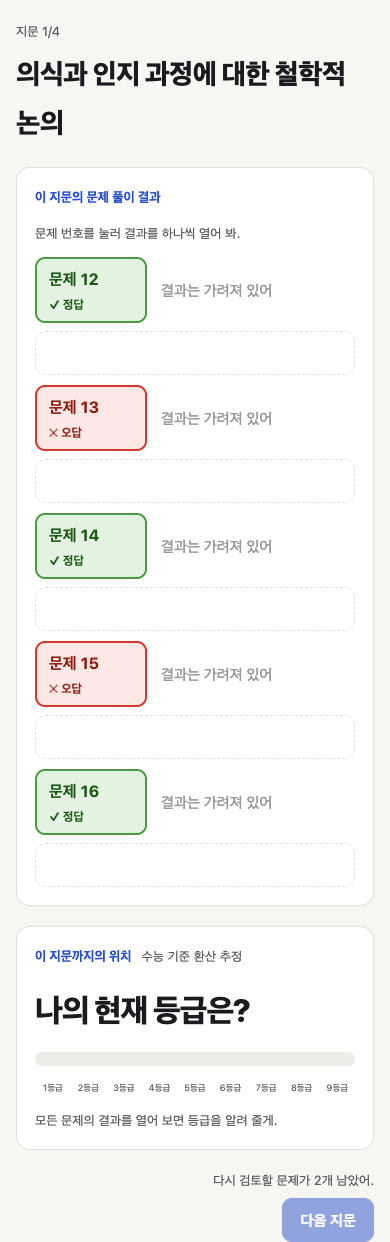
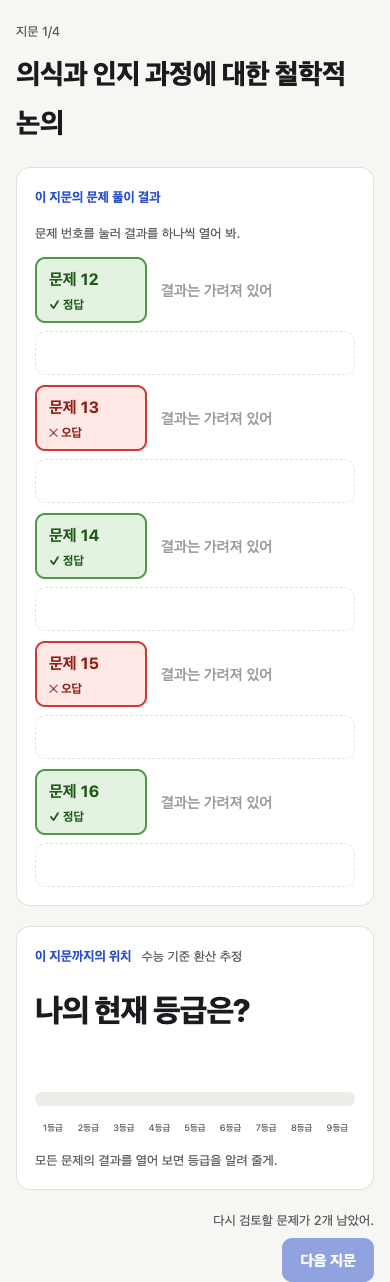
feat(diagnostic): continuous grade gradient with hover probability and most-likely grade line (D-0219)

diff --git a/packages/pipeline/src/diagnostic-position/position.ts b/packages/pipeline/src/diagnostic-position/position.ts
@@ -22,8 +22,9 @@ export interface ParticipantPosition {
   answered: number;
   correct: number;
   percentile: PositionRange;
-  /** probabilities: 1~9등급 확률(합 1), mode: 확률 최대 등급(같으면 더 높은 등급 = 작은 숫자). */
-  grade: { mean: number; best: number; worst: number; probabilities: number[]; mode: number };
+  /** probabilities: 1~9등급 확률(합 1), mode: 확률 최대 등급(같으면 더 높은 등급 = 작은 숫자).
+   *  density: 실수 등급 축 [1, 10)을 등급마다 GRADE_DENSITY_BINS칸으로 나눈 확률(합 1, 매끄럽게 편 값, D-0219). */
+  grade: { mean: number; best: number; worst: number; probabilities: number[]; mode: number; density: number[] };
   bySubject: Record<PositionSubject, { percentile: PositionRange }>;
 }
 
@@ -54,8 +55,8 @@ export function itemDifficultyFor(data: PositionData, seq: string, questionNumbe
 
 const GRID = Array.from({ length: 401 }, (_, j) => -4 + 8 * j / 400);
 /** 사전분포 N(0, σ²), 격자 -4~4 401점의 사후 가중치(합 1). */
-function abilityPosterior(responses: { b: number; correct: boolean }[], sigma: number): number[] {
-  const lp = GRID.map(t => -t * t / (2 * sigma * sigma)
+function abilityPosterior(responses: { b: number; correct: boolean }[], sigma: number, grid: readonly number[] = GRID): number[] {
+  const lp = grid.map(t => -t * t / (2 * sigma * sigma)
     + responses.reduce((sum, { b, correct }) => sum + Math.log(correct ? logistic(t - b) : 1 - logistic(t - b)), 0));
   const m = Math.max(...lp);
   const w = lp.map(x => Math.exp(x - m));
@@ -91,32 +92,92 @@ export function gradeOfPercentile(percentile: number): number {
   const g = TOP.findIndex(c => top <= c);
   return g < 0 ? 9 : g + 1;
 }
+/** 기준 시험 45문항 예상 원점수(능력값의 매끄러운 함수). */
+export function nationalRaw(theta: number, subject: PositionSubject, sigma = POSITION_SIGMA, data = loadPositionData()): number {
+  return examItems(data, REFERENCE_EXAM_SEQ, subject)
+    .reduce((sum, it) => sum + it.points * logistic(theta - itemDifficulty(it.correctRate / 100, sigma)), 0);
+}
 /** 기준 시험 45문항 예상 원점수 → 원점수 등급컷 보간으로 전국 백분위. */
 export function nationalPosition(theta: number, subject: PositionSubject, sigma = POSITION_SIGMA, data = loadPositionData()): number {
-  const raw = examItems(data, REFERENCE_EXAM_SEQ, subject)
-    .reduce((sum, it) => sum + it.points * logistic(theta - itemDifficulty(it.correctRate / 100, sigma)), 0);
-  return percentOfRaw(data, raw, REFERENCE_EXAM_SEQ, subject);
+  return percentOfRaw(data, nationalRaw(theta, subject, sigma, data), REFERENCE_EXAM_SEQ, subject);
 }
 
-/** 선택과목 하나의 사후분포 격자 점마다 능력값 → 전국 백분위 → 등급을 매기고 가중치를 더한 등급 분포(1~9등급, 합 1). */
-function gradeProbabilities(posterior: number[], subject: PositionSubject, data: PositionData): number[] {
-  const probabilities = new Array<number>(9).fill(0);
-  GRID.forEach((theta, i) => {
-    if (posterior[i]! < 1e-12) return;
-    probabilities[gradeOfPercentile(nationalPosition(theta, subject, POSITION_SIGMA, data)) - 1]! += posterior[i]!;
-  });
-  return probabilities;
+/** 실수 등급 한 칸을 나누는 칸 수(띠 그라데이션용, D-0219). */
+export const GRADE_DENSITY_BINS = 10;
+
+/** 단조 3차 보간(PCHIP, Fritsch–Carlson). x는 오름차순. 점을 그대로 지나고 단조성과 1차 미분 연속을 지킨다. */
+export function pchip(xs: readonly number[], ys: readonly number[]): (x: number) => number {
+  const n = xs.length; const h: number[] = []; const delta: number[] = [];
+  for (let i = 0; i + 1 < n; i++) { h.push(xs[i + 1]! - xs[i]!); delta.push((ys[i + 1]! - ys[i]!) / h[i]!); }
+  const m = new Array<number>(n).fill(0);
+  m[0] = delta[0]!; m[n - 1] = delta[n - 2]!;
+  for (let i = 1; i + 1 < n; i++) {
+    if (delta[i - 1]! * delta[i]! <= 0) { m[i] = 0; continue; }
+    const w1 = 2 * h[i]! + h[i - 1]!; const w2 = h[i]! + 2 * h[i - 1]!;
+    m[i] = (w1 + w2) / (w1 / delta[i - 1]! + w2 / delta[i]!);   // 가중 조화 평균
+  }
+  return (x: number) => {
+    const clamped = Math.min(xs[n - 1]!, Math.max(xs[0]!, x));
+    let i = 0; while (i + 2 < n && clamped > xs[i + 1]!) i++;
+    const t = (clamped - xs[i]!) / h[i]!; const t2 = t * t; const t3 = t2 * t;
+    return (2 * t3 - 3 * t2 + 1) * ys[i]! + (t3 - 2 * t2 + t) * h[i]! * m[i]! + (-2 * t3 + 3 * t2) * ys[i + 1]! + (t3 - t2) * h[i]! * m[i + 1]!;
+  };
 }
+const gradeCurves = new Map<string, (raw: number) => number>();
+/** 원점수 → 실수 등급 [1, 10). 원점수 등급컷을 정수 등급 경계(100점 = 1.0, 1등급컷 = 2.0, …, 8등급컷 = 9.0, 0점 = 10.0)로 두고
+ *  단조 3차 보간으로 잇는다. 직선 보간은 등급마다 원점수 폭이 달라 경계에서 띠 진하기가 꺾였다(D-0219 정정). */
+export function continuousGradeOfRaw(raw: number, subject: PositionSubject, data = loadPositionData()): number {
+  const key = `${REFERENCE_EXAM_SEQ}/${subject}`;
+  let curve = gradeCurves.get(key);
+  if (!curve) {
+    const cuts = data.cuts[REFERENCE_EXAM_SEQ]?.cuts[subject];
+    if (!cuts || cuts.length !== 8) throw new Error(`등급컷 자료가 없습니다: ${key}`);
+    curve = pchip([0, ...[...cuts].reverse(), 100], [10, 9, 8, 7, 6, 5, 4, 3, 2, 1]);
+    gradeCurves.set(key, curve);
+  }
+  return Math.min(10 - 1e-9, Math.max(1, curve(raw)));
+}
+
+/** 등급 축 계산용 촘촘한 능력값 격자(-4~4, 4001점). 401점 격자는 1등급 쪽에서 등급 칸보다 성글었다. */
+const FINE_GRID = Array.from({ length: 4001 }, (_, j) => -4 + 8 * j / 4000);
+/** 선택과목 하나: 촘촘한 격자의 사후분포를 실수 등급 칸(등급마다 GRADE_DENSITY_BINS칸)과 정수 등급으로 모은다. */
+function gradeAxis(scored: { b: number; correct: boolean }[], subject: PositionSubject, data: PositionData): { bins: number[]; probabilities: number[] } {
+  const posterior = abilityPosterior(scored, POSITION_SIGMA, FINE_GRID);
+  const bins = new Array<number>(9 * GRADE_DENSITY_BINS).fill(0); const probabilities = new Array<number>(9).fill(0);
+  FINE_GRID.forEach((theta, i) => {
+    if (posterior[i]! < 1e-14) return;
+    const c = continuousGradeOfRaw(nationalRaw(theta, subject, POSITION_SIGMA, data), subject, data);
+    bins[Math.min(bins.length - 1, Math.floor((c - 1) * GRADE_DENSITY_BINS))]! += posterior[i]!;
+    probabilities[Math.min(8, Math.floor(c) - 1)]! += posterior[i]!;
+  });
+  return { bins, probabilities };
+}
+/** 칸 경계에서 생기는 잔물결만 가볍게 편다(가우스 커널 σ = 1칸). 합은 1로 다시 맞춘다. */
+function smoothDensity(bins: number[], sigma = 1): number[] {
+  const radius = Math.ceil(sigma * 3);
+  const kernel = Array.from({ length: 2 * radius + 1 }, (_, k) => Math.exp(-((k - radius) ** 2) / (2 * sigma * sigma)));
+  const out = bins.map((_, i) => {
+    let sum = 0; let weight = 0;
+    kernel.forEach((w, k) => { const j = i + k - radius; if (j >= 0 && j < bins.length) { sum += bins[j]! * w; weight += w; } });
+    return sum / weight;
+  });
+  const total = out.reduce((a, x) => a + x, 0);
+  return total > 0 ? out.map(x => x / total) : out;
+}
+
 
 /** 지금까지 답한 문항의 정오로 두 선택과목을 각각 계산하고 백분위를 평균한다. σ = 1. */
 export function participantPosition(responses: PositionResponse[], data = loadPositionData()): ParticipantPosition {
   const bySubject = {} as ParticipantPosition['bySubject'];
   const probabilities = new Array<number>(9).fill(0);
+  const rawDensity = new Array<number>(9 * GRADE_DENSITY_BINS).fill(0);
   for (const subject of POSITION_SUBJECTS) {
     const scored = responses.map(r => ({ b: itemDifficultyFor(data, r.seq, r.questionNumber, subject), correct: r.correct }));
     const theta = estimateAbility(scored, POSITION_SIGMA);
     // 두 선택과목의 등급 분포는 산술 평균한다(백분위를 두 과목 평균하는 것과 같은 취지, D-0218).
-    gradeProbabilities(abilityPosterior(scored, POSITION_SIGMA), subject, data).forEach((x, i) => { probabilities[i]! += x / POSITION_SUBJECTS.length; });
+    const axis = gradeAxis(scored, subject, data);
+    axis.probabilities.forEach((x, i) => { probabilities[i]! += x / POSITION_SUBJECTS.length; });
+    axis.bins.forEach((x, i) => { rawDensity[i]! += x / POSITION_SUBJECTS.length; });
     bySubject[subject] = { percentile: {
       mean: nationalPosition(theta.mean, subject, POSITION_SIGMA, data),
       low: nationalPosition(theta.low, subject, POSITION_SIGMA, data),
@@ -126,5 +187,5 @@ export function participantPosition(responses: PositionResponse[], data = loadPo
   const percentile = { mean: avg('mean'), low: avg('low'), high: avg('high') };
   return { answered: responses.length, correct: responses.filter(r => r.correct).length, percentile,
     grade: { mean: gradeOfPercentile(percentile.mean), best: gradeOfPercentile(percentile.high), worst: gradeOfPercentile(percentile.low),
-      probabilities, mode: probabilities.reduce((best, x, i) => x > probabilities[best]! ? i : best, 0) + 1 }, bySubject };
+      probabilities, mode: probabilities.reduce((best, x, i) => x > probabilities[best]! ? i : best, 0) + 1, density: smoothDensity(rawDensity) }, bySubject };
 }

diff --git a/packages/app/src/client/diagnostic/Pages.tsx b/packages/app/src/client/diagnostic/Pages.tsx
@@ -1,6 +1,6 @@
 /** 시작 안내·요약 선택·지문 결과 화면(인계 B (4), D-0218). */
 import { useState } from 'react';
-import { MEGASTUDY_NOTE, PENDING_TEXT, RESULT_GROUP_MARK, devCategoryText, finishHint, gradeShade, resultGroup, resultRow } from './logic.js';
+import { MEGASTUDY_NOTE, PENDING_TEXT, RESULT_GROUP_MARK, devCategoryText, finishHint, gradeAtFraction, gradeGradient, gradeSentence, resultGroup, resultRow } from './logic.js';
 import type { SummaryCardView } from './types.js';
 
 export function IntroPage({ busy, error, start }: { busy: boolean; error: string; start: () => void }): React.JSX.Element {
@@ -29,12 +29,30 @@ export function ChoosePage({ title, number, total, busy, error, choose }: {
 const GRADES = [1, 2, 3, 4, 5, 6, 7, 8, 9];
 
 /** 지문 결과 화면(D-0218): 문항 줄 목록(결과는 눌러서 하나씩 공개) → 등급 → 다음 지문. */
+/** 등급 띠(D-0219): 9개 등급 확률을 부드럽게 이은 그라데이션으로 칠하고, 커서(또는 누름)가 있는 등급의 확률을 보인다. */
+function GradeBar({ grade }: { grade: { probabilities: number[] } | null }): React.JSX.Element {
+  const [hover, setHover] = useState<{ grade: number; x: number } | null>(null);
+  const percent = (g: number) => Math.round(grade!.probabilities[g - 1]! * 100);
+  const point = (e: React.PointerEvent<HTMLDivElement>) => {
+    if (!grade) return;
+    const box = e.currentTarget.getBoundingClientRect();
+    const fraction = Math.min(1, Math.max(0, (e.clientX - box.left) / box.width));
+    setHover({ grade: gradeAtFraction(fraction), x: fraction * 100 });
+  };
+  return <div className="diag-gradebar-wrap">
+    <div className="diag-gradebar" data-testid="grade-bar" role="img" data-filled={grade !== null}
+      aria-label={grade ? `등급별 확률: ${GRADES.map(g => `${g}등급 ${percent(g)}%`).join(', ')}` : '등급은 모든 문제의 결과를 열면 보여 줘'}
+      style={grade ? { backgroundImage: gradeGradient(grade.probabilities) } : undefined}
+      onPointerMove={point} onPointerDown={point} onPointerLeave={() => setHover(null)} />
+    {grade && hover && <div className="diag-gradetip" role="status" data-testid="grade-tip" style={{ left: `${hover.x}%`, transform: `translateX(${hover.x < 12 ? '0' : hover.x > 88 ? '-100%' : '-50%'})` }}>{hover.grade}등급일 확률 {percent(hover.grade)}%</div>}
+  </div>;
+}
+
 export function MidPage({ title, number, total, card, dev, last, busy, error, reveal, review, finish }: {
   title: string; number: number; total: number; card: SummaryCardView | null; dev: boolean; last: boolean; busy: boolean; error: string;
   reveal: (questionId: string) => void; review: (questionId: string) => void; finish: () => void;
 }): React.JSX.Element {
   const hint = card ? finishHint(card) : null;
-  const shade = card?.position ? gradeShade(card.position.grade.probabilities) : null;
   return <main className="diag-page"><div className="diag-wrap">
     <header className="diag-heading"><p className="diag-sub">지문 {number}/{total}</p><h1>{title}</h1></header>
     <section className="diag-card" aria-label="이 지문의 문제 풀이 결과"><span className="diag-label">이 지문의 문제 풀이 결과</span>
@@ -58,9 +76,8 @@ export function MidPage({ title, number, total, card, dev, last, busy, error, re
             {card.items.some(item => item.revealed) && <p className="diag-muted">정답률과 같은 선지를 고른 비율은 {MEGASTUDY_NOTE}(두 수치는 화작 · 언매 순).</p>}</>}</> : <p className="diag-muted" role="status">{PENDING_TEXT}</p>}</section>
     <section className="diag-card" aria-label="이 지문까지의 위치"><div className="diag-card-head"><span className="diag-label">이 지문까지의 위치</span><span className="diag-sub">수능 기준 환산 추정</span></div>
       <p className="diag-big" data-testid="grade-text">{card?.position ? `${card.position.grade.mode}등급` : '나의 현재 등급은?'}</p>
-      <div className="diag-gradebar" data-testid="grade-bar" role="img" aria-label={card?.position ? `등급별 확률: ${GRADES.map(g => `${g}등급 ${Math.round(card.position!.grade.probabilities[g - 1]! * 100)}%`).join(', ')}` : '등급은 모든 문제의 결과를 열면 보여 줘'}>
-        {GRADES.map(g => <span key={g} data-testid={`grade-seg-${g}`} data-mode={card?.position?.grade.mode === g}
-          style={shade ? { opacity: shade[g - 1] } : undefined} title={card?.position ? `${g}등급 ${Math.round(card.position.grade.probabilities[g - 1]! * 100)}%` : undefined} />)}</div>
+      {card?.position && <p className="diag-gradeline" data-testid="grade-sentence">{gradeSentence(card.position.grade.probabilities, card.position.grade.mode)}</p>}
+      <GradeBar grade={card?.position?.grade ?? null} />
       <div className="diag-gradeticks" aria-hidden="true">{GRADES.map(g => <span key={g}>{g}등급</span>)}</div>
       {!card?.position && <p className="diag-muted">모든 문제의 결과를 열어 보면 등급을 알려 줄게.</p>}</section>
     <div className="diag-footer">{error && <p className="err" role="alert">{error}</p>}

diff --git a/packages/pipeline/src/diagnostic-position/position.test.ts b/packages/pipeline/src/diagnostic-position/position.test.ts
@@ -1,5 +1,5 @@
 import { describe, expect, it } from 'vitest';
-import { estimateAbility, gradeOfPercentile, itemDifficulty, participantPosition, type PositionResponse } from './position.js';
+import { GRADE_DENSITY_BINS, continuousGradeOfRaw, pchip, estimateAbility, gradeOfPercentile, itemDifficulty, participantPosition, type PositionResponse } from './position.js';
 
 // 세트 E 16문항(grade-cuts.json setEItems). 기대값은 OUTPUT.md 3절 표다(calibrate.py를 다시 실행하지 않는다).
 const SET_E: [string, number][] = [
@@ -66,6 +66,33 @@ describe('등급 확률(D-0218)', () => {
   it('기존 값(mean·best·worst·percentile)은 바뀌지 않는다', () => {
     const p = participantPosition(responsesFor(8));
     expect(Math.round(p.percentile.mean)).toBe(61); expect(p.grade.mean).toBe(4); expect(p.grade.best).toBe(3); expect(p.grade.worst).toBe(5);
+  });
+});
+
+describe('실수 등급과 등급 축 확률(D-0219)', () => {
+  it('단조 3차 보간은 점을 지나고 단조이며 경계에서 기울기가 이어진다', () => {
+    const f = pchip([0, 1, 3, 4], [10, 7, 6, 2]);
+    expect([0, 1, 3, 4].map(f)).toEqual([10, 7, 6, 2]);
+    const xs = Array.from({ length: 401 }, (_, i) => i / 100); const ys = xs.map(f);
+    ys.slice(1).forEach((y, i) => expect(y).toBeLessThanOrEqual(ys[i]! + 1e-12));
+  });
+  it('원점수 → 실수 등급: 100점 1.0, 등급컷에서 정수, 0점 쪽 10 미만, 1등급컷(화작 90점)에서 기울기가 꺾이지 않는다', () => {
+    expect(continuousGradeOfRaw(100, '1004')).toBe(1);
+    [90, 83, 73, 63, 49, 37, 27, 20].forEach((cut, i) => expect(continuousGradeOfRaw(cut, '1004')).toBeCloseTo(i + 2, 9));
+    expect(continuousGradeOfRaw(0, '1004')).toBeLessThan(10);
+    const e = 0.01; const left = (continuousGradeOfRaw(90, '1004') - continuousGradeOfRaw(90 + e, '1004')) / e;
+    const right = (continuousGradeOfRaw(90 - e, '1004') - continuousGradeOfRaw(90, '1004')) / e;
+    expect(Math.abs(left - right) / left).toBeLessThan(0.01);
+  });
+  it.each([0, 4, 8, 12, 16])('정답 %i개: 칸 수 9×%s, 합 1, 등급별 합은 정수 등급 확률과 가깝다', k => {
+    const { grade } = participantPosition(responsesFor(k));
+    expect(grade.density).toHaveLength(9 * GRADE_DENSITY_BINS);
+    expect(grade.density.reduce((a, x) => a + x, 0)).toBeCloseTo(1, 9);
+    // 펴기(σ 1.5칸) 때문에 경계 근처가 조금 섞인다. 등급별 합이 정수 등급 확률과 0.1 안에서 같다.
+    grade.probabilities.forEach((p, g) => {
+      const sum = grade.density.slice(g * GRADE_DENSITY_BINS, (g + 1) * GRADE_DENSITY_BINS).reduce((a, x) => a + x, 0);
+      expect(Math.abs(sum - p)).toBeLessThan(0.1);
+    });
   });
   it('계산 시간을 잰다(참고용)', () => {
     const started = performance.now(); participantPosition(responsesFor(8)); const ms = performance.now() - started;

diff --git a/packages/app/src/client/diagnostic/logic.test.ts b/packages/app/src/client/diagnostic/logic.test.ts
@@ -2,7 +2,7 @@ import { gradeOfPercentile as serverGrade } from '@csat/pipeline';
 import { describe, expect, it } from 'vitest';
 import {
   answerPayload, answerQuality, branchRows, categoryTally, countCategories, toggleConfidence, gradeOfPercentile, hasPending, sourceLocationName, cardStepName, cardTwists, cellState, circledObject, eulReul, focusRationale, gradeText, layerSentence, newTimer,
-  rangeBar, recommendationLines, resultGroup, resultRow, devCategoryText, finishHint, gradeShade, solveStats, startTimer, stepTendency, stopTimer, summaryLinkSentence, sumCounts, timerValues, twistTags, zOfPercentile,
+  rangeBar, recommendationLines, resultGroup, resultRow, devCategoryText, finishHint, gradeAtFraction, gradeGradient, gradeSentence, solveStats, startTimer, stepTendency, stopTimer, summaryLinkSentence, sumCounts, timerValues, twistTags, zOfPercentile,
 } from './logic.js';
 import type { AnswerCategory, ReadingCounts, ResultItem, SummaryCardItem } from './types.js';
 
@@ -49,7 +49,17 @@ describe('지문 결과 줄(D-0218)', () => {
     expect(finishHint({ canFinish: false, judging: 0, items })).toBe('다시 검토할 문제가 1개 남았어.');
     expect(finishHint({ canFinish: false, judging: 1, items })).toBe('분석이 끝나면 넘어갈 수 있어.');
     expect(finishHint({ canFinish: true, judging: 0, items })).toBeNull();
-    expect(gradeShade([0, 0.5, 0.25])).toEqual([0.08, 1, 0.5]);
+    expect(gradeGradient([0, 0.5, 0.25], undefined, 2)).toBe('linear-gradient(to right, rgba(42, 79, 204, 0.060) 16.67%, rgba(42, 79, 204, 0.530) 33.33%, rgba(42, 79, 204, 1.000) 50.00%, rgba(42, 79, 204, 0.765) 66.67%, rgba(42, 79, 204, 0.530) 83.33%)');
+    // 등급 칸 가운데(9칸이면 (g-0.5)/9)의 진하기 = 그 등급 확률 / 최댓값
+    const probs = [0.02, 0.1, 0.3, 0.4, 0.15, 0.03, 0, 0, 0];
+    const at = (pct: string) => gradeGradient(probs).match(new RegExp(`rgba\\(42, 79, 204, ([\\d.]+)\\) ${pct}%`))?.[1];
+    expect(at('27.78')).toBe((0.06 + 0.94 * 0.3 / 0.4).toFixed(3));   // 3등급 가운데
+    expect(at('38.89')).toBe('1.000');                                // 4등급(최대) 가운데
+    expect([0, 0.11, 0.12, 0.5, 0.999, 1].map(gradeAtFraction)).toEqual([1, 1, 2, 5, 9, 9]);
+    const nine = (xs: number[]) => [...xs, ...Array(9 - xs.length).fill(0)];
+    expect(gradeSentence(nine([0.1, 0.2, 0.35, 0.25, 0.1]), 3)).toBe('3등급일 확률이 35%로 가장 높아');
+    expect(gradeSentence(nine([0.1, 0.341, 0.339, 0.22]), 2)).toBe('2등급과 3등급일 확률이 각각 34%로 가장 높아');
+    expect(gradeSentence(nine([0.3, 0.3, 0.3, 0.1]), 1)).toBe('1등급, 2등급과 3등급일 확률이 각각 30%로 가장 높아');
   });
 });
 

diff --git a/packages/app/src/client/diagnostic/logic.ts b/packages/app/src/client/diagnostic/logic.ts
@@ -86,10 +86,39 @@ export function finishHint(card: Pick<SummaryCardView, 'canFinish' | 'judging' |
   return left > 0 ? `다시 검토할 문제가 ${left}개 남았어.` : null;
 }
 
-/** 등급 띠 한 칸의 진하기(0.08~1). 가장 높은 확률 칸이 가장 진하다. */
-export function gradeShade(probabilities: readonly number[]): number[] {
+/**
+ * 등급 띠 그라데이션(D-0219): 9개 등급 확률을 각 등급 칸 가운데의 진하기(최댓값 기준 0.06~1)로 두고,
+ * 이웃 가운데 사이를 코사인 곡선으로 이어 꺾임 없이 잇는다. 칸 가운데의 진하기는 그 등급 확률 그대로이고,
+ * 곡선은 두 값 사이를 벗어나지 않는다. 첫·끝 칸 가운데 바깥은 그 값으로 평평하다.
+ */
+export function gradeGradient(probabilities: readonly number[], rgb = '42, 79, 204', steps = 8): string {
   const max = Math.max(...probabilities, 1e-9);
-  return probabilities.map(x => Math.max(0.08, x / max));
+  const alpha = (p: number) => 0.06 + 0.94 * p / max;
+  const n = probabilities.length;
+  const stop = (a: number, at: number) => `rgba(${rgb}, ${a.toFixed(3)}) ${(at / n * 100).toFixed(2)}%`;
+  const stops: string[] = [stop(alpha(probabilities[0]!), 0.5)];
+  for (let i = 0; i + 1 < n; i++) {
+    const from = alpha(probabilities[i]!); const to = alpha(probabilities[i + 1]!);
+    for (let s = 1; s <= steps; s++) {
+      const t = s / steps; const w = (1 - Math.cos(Math.PI * t)) / 2;
+      stops.push(stop(from + (to - from) * w, i + 0.5 + t));
+    }
+  }
+  return `linear-gradient(to right, ${stops.join(', ')})`;
+}
+/** 제목 아래 한 줄: "3등급일 확률이 35%로 가장 높아". 반올림한 퍼센트가 최빈 등급과 같은 등급이 더 있으면 함께 쓴다. */
+export function gradeSentence(probabilities: readonly number[], mode: number): string {
+  const percents = probabilities.map(p => Math.round(p * 100));
+  const top = percents[mode - 1]!;
+  const tied = percents.flatMap((p, i) => (p === top ? [i + 1] : []));
+  if (!tied.includes(mode)) tied.push(mode);
+  tied.sort((a, b) => a - b);
+  if (tied.length === 1) return `${mode}등급일 확률이 ${top}%로 가장 높아`;
+  return `${tied.slice(0, -1).join('등급, ')}등급과 ${tied.at(-1)}등급일 확률이 각각 ${top}%로 가장 높아`;
+}
+/** 띠 위 가로 위치(0~1) → 그 지점이 속한 정수 등급(1~9). */
+export function gradeAtFraction(fraction: number): number {
+  return Math.min(9, Math.max(1, Math.floor(fraction * 9) + 1));
 }
 
 // ---------- ① 내 위치 ----------

diff --git a/packages/app/src/client/diagnostic/diagnostic.css b/packages/app/src/client/diagnostic/diagnostic.css
@@ -14,6 +14,7 @@
 .diag-big { margin: 0; font-size: 36px; font-weight: 800; letter-spacing: -1px; }
 .diag-sentence { margin: 0; font-size: 18px; line-height: 1.6; font-weight: 700; }
 .diag-line { margin: 0; font-size: 15px; line-height: 1.6; }
+.diag-gradeline { margin: 4px 0 0; font-size: 15px; line-height: 1.6; color: var(--diag-sub); }
 .diag-muted { margin: 0; font-size: 13px; line-height: 1.6; color: var(--diag-sub); }
 .diag-page .err { margin: 0; font-size: 13px; color: #b33d3d; }
 .diag-curve { width: 100%; height: auto; display: block; }
@@ -136,11 +137,11 @@ button.diag-reviewbtn:not(:disabled):hover { background: #fde4c7; }
 .diag-reviewbtn:disabled { cursor: not-allowed; opacity: 1; color: #5f5f66; }
 .diag-reviewbtn[data-done=true]:disabled { background: #e4f3e1; border-color: #b9dbb3; color: #1f5a19; }
 .diag-reviewhidden { display: block; background: transparent; border: 1px dashed var(--diag-line); }
-.diag-gradebar { display: grid; grid-template-columns: repeat(9, 1fr); height: 14px; background: var(--diag-track); border-radius: 7px; overflow: hidden; }
-.diag-gradebar > span { background: var(--diag-accent); }
-.diag-gradebar:not(:has([style])) > span { background: transparent; }
+.diag-gradebar-wrap { position: relative; margin-top: 40px; }
+.diag-gradebar { height: 14px; background-color: var(--diag-track); border-radius: 7px; touch-action: none; }
+.diag-gradebar[data-filled=true] { cursor: crosshair; }
+.diag-gradetip { position: absolute; bottom: calc(100% + 8px); white-space: nowrap; padding: 4px 8px; border-radius: 6px; background: var(--diag-ink); color: #fff; font-size: 12px; font-weight: 600; pointer-events: none; }
 .diag-gradeticks { display: grid; grid-template-columns: repeat(9, 1fr); font-size: 11px; color: var(--diag-sub); text-align: center; }
-.diag-gradebar > span[data-mode=true] { box-shadow: inset 0 -3px 0 #0f2a85; }
 .diag-footer { display: flex; flex-direction: column; align-items: flex-end; gap: 8px; }
 @media (max-width: 720px) {
   .diag-row { grid-template-columns: 112px minmax(0, 1fr); }

diff --git a/packages/app/src/client/diagnostic/types.ts b/packages/app/src/client/diagnostic/types.ts
@@ -38,8 +38,8 @@ export interface SummaryCardView {
   status: 'ready'; correct: number; total: number; judging: number;
   items: SummaryCardItem[];
   allRevealed: boolean; canFinish: boolean;
-  /** 모든 문항을 공개하기 전, 또는 답한 문항이 없으면 null. `grade.probabilities`는 1~9등급 확률(합 1), `mode`는 확률 최대 등급. */
-  position: { answered: number; correct: number; grade: { mode: number; probabilities: number[] } } | null;
+  /** 모든 문항을 공개하기 전, 또는 답한 문항이 없으면 null. `grade.probabilities`는 1~9등급 확률(합 1), `mode`는 확률 최대 등급, `density`는 실수 등급 축의 확률(등급마다 10칸, D-0219). */
+  position: { answered: number; correct: number; grade: { mode: number; probabilities: number[]; density: number[] } } | null;
 }
 export type DiagnosticFeedbackView = FeedbackWorkbenchView & { skippable: boolean; judgmentPending?: boolean };
 

diff --git a/packages/app/src/server/diagnostic/controller.ts b/packages/app/src/server/diagnostic/controller.ts
@@ -355,7 +355,7 @@ export class DiagnosticController {
     const canFinish = judging === 0 && cards.every(card => !card.reviewTarget || card.reviewDone);
     const position = allRevealed ? this.position(p) : null;
     return { status: 'ready' as const, correct, total: cards.length, judging, items: cards, allRevealed, canFinish,
-      position: position === null ? null : { answered: position.answered, correct: position.correct, grade: { mode: position.grade.mode, probabilities: position.grade.probabilities } } };
+      position: position === null ? null : { answered: position.answered, correct: position.correct, grade: { mode: position.grade.mode, probabilities: position.grade.probabilities, density: position.grade.density } } };
   }
 
   /** 문항 결과를 공개한 것으로 기록한다(되돌리지 않는다). 갱신된 지문 결과를 돌려준다. */

diff --git a/memory/decisions/D-0219-diagnostic-grade-continuous-gradient.md b/memory/decisions/D-0219-diagnostic-grade-continuous-gradient.md
@@ -1,0 +1,35 @@
+---
+id: D-0219
+status: accepted
+date: 2026-11-10
+scope: sns-diagnostic-passage-result-screen
+supersedes: none (D-0218 4번 "등급별 확률을 진하기로 칠한 띠"의 표현 방식을 구체화)
+---
+
+# 진단 등급 띠: 실수 등급 축의 연속 그라데이션, 커서를 대면 그 등급의 확률, 큰 글씨는 최빈 정수 등급
+
+## 결정
+
+사용자(2026-11-10, "등급을 실수화 + interpolation을 이용해서 연속적인 gradation 형식으로. 바에 커서를 대면 확률이 확인되도록"). 질문 셋에 대한 답:
+
+1. 실수 등급은 전국 백분위를 등급 경계(상위 4·11·23·40·60·77·89·96%) 사이에서 선형 보간해 만든다(예: 상위 7.5% → 2.5등급). 정수 부분은 기존 정수 등급과 같다.
+2. 커서를 대면 그 지점이 속한 정수 등급의 확률을 보인다("2등급일 확률 42%")(안 가).
+3. 큰 글씨는 확률이 가장 높은 정수 등급 그대로("2등급")(안 가).
+
+## 구현 (코드 에이전트)
+
+- `packages/pipeline/src/diagnostic-position/position.ts`: `continuousGradeOfPercentile`, 능력값 사후분포 격자를 실수 등급 축 90칸(등급마다 10칸)으로 모으고 가우스 커널(σ 1.5칸)로 펴서 `grade.density`(합 1)로 낸다. 두 선택과목은 산술 평균(D-0218과 같음). 펴기 때문에 등급별 합은 정수 등급 확률과 조금 다를 수 있다(시험 기준 0.1 안). 커서 숫자는 정수 등급 확률(`probabilities`)을 쓴다.
+- 화면 `packages/app/src/client/diagnostic/Pages.tsx` `GradeBar`: `linear-gradient` 연속 띠(진하기 0.06~1, 최댓값 기준), 포인터를 대거나 누르면 말풍선.
+
+## 근거
+
+- 시험: 위치 계산 시험(보간 값, 칸 수·합·등급별 합), 화면 시험(그라데이션·말풍선), `npm test` 기존 실패 2건 외 통과. 화면 사진 `docs/review/diagnostic-passage-result-screens-2026-11-10/07-all-revealed-desktop.png`.
+
+## 변경 (같은 날, 사용자 결정)
+
+1. **실수 등급 계산 정정(코드 에이전트)**: 위 결정 1의 백분위 선형 보간은 띠가 울퉁불퉁했다(등급마다 원점수 폭이 달라 경계에서 꺾임). 원점수 → 실수 등급을 단조 3차 보간(PCHIP, 100점 1.0, 등급컷 k → k+1, 0점 → 10)으로 바꿨다(`continuousGradeOfRaw`, `pchip`). 그래도 완만한 물결이 남았다.
+2. **띠는 9개 등급 확률로 칠한다(사용자, "띠를 9개 등급 확률 사이를 부드럽게 잇는 방식으로")**: 등급 칸 가운데의 진하기 = 그 등급 확률(최댓값 기준 0.06~1), 이웃 가운데 사이는 코사인 곡선으로 꺾임 없이 잇는다(`packages/app/src/client/diagnostic/logic.ts` `gradeGradient`). 커서 확률과 진하기가 정확히 맞는다. 위치 계산의 `grade.density`(실수 등급 축)는 화면에서 쓰지 않는다(API에는 남아 있음, 정리 여부는 미정).
+3. **큰 글씨 아래 한 줄(사용자)**: "3등급일 확률이 35%로 가장 높아"(`gradeSentence`). 반올림한 퍼센트가 같은 등급이 더 있으면 "2등급과 3등급일 확률이 각각 34%로 가장 높아". 실수 범위 표기("2등급(1.6–2.5등급)")는 쓰지 않는다.
+   - 근거: 세트 E 문항으로 계산하면 16문항을 다 풀어도 80% 범위가 약 2.3등급 폭(예: 12/16 정답 2.1–4.4), 10~30% 범위는 좁지만 확신도가 낮고, 범위 중심(중앙값)과 제목(최빈 등급)이 어긋나는 경우가 있다(예: 4/4 정답, 제목 1등급, 10% 범위 2.4–2.9). 계산 스크립트는 세션 임시 파일이었고 저장소에 두지 않았다.
+   - 최빈 등급 확률은 지문 1개 뒤 약 30%, 16문항 뒤 약 40~45%로 낮게 읽힐 수 있다(사용 중 관찰 대상).
+- 시험: 화면 vitest 30건, 위치 시험 통과, Playwright 진단 3건 통과(한 줄 문구 확인 추가). 화면 사진 `docs/review/diagnostic-passage-result-screens-2026-11-10/07-all-revealed-desktop.png`, `08-all-revealed-390.png`.

diff --git a/memory/checkpoints/2026-11-10-diagnostic-v510-use-notes.md b/memory/checkpoints/2026-11-10-diagnostic-v510-use-notes.md
@@ -89,3 +89,10 @@ base_commit: 199ebd28
 - 실행자 판단(수용): 오답이지만 판정이 충분·일치라 상태기계가 문항 검토(`ITEM_REVIEW`)로 가는 문항은 리뷰 대상에서 빼고 "한 번 더 확인해 볼게"(비활성)로 둠. 이 경우 검토 화면이 `COMPLETED`에 이르지 못해 다음 지문이 막히기 때문. 판단은 서버 `reviewTarget()` 한 곳.
 - 정답 판정 실패(`CHECKING`)는 리뷰 대상이 아니라 학생이 검토 화면에서 판정 재시도(`RESUME`)할 길이 없어짐(배경 자동 재시도는 그대로).
 - 남은 것: 공개 전 등급 숨김은 지문 결과 응답에만 적용, `/progress`·`result` 응답에는 등급이 실림(API 직접 열면 보임). 최종 결과 화면 위치 표시는 범위 그대로.
+
+## (구현) 등급 띠 연속 그라데이션 — D-0219
+
+- 코드 에이전트 직접 구현(작은 작업). 위치 계산에 실수 등급·등급 축 확률(`grade.density`) 추가, 화면 띠를 연속 그라데이션 + 커서 확률 말풍선으로 교체. 말풍선이 띠 끝에서 카드 밖으로 나가고 큰 등급 글자를 가리던 것을 고침(가장자리 정렬, 띠 위 여백 40px).
+- 시험: 위치·진단·화면 vitest 통과, Playwright 진단 3건 통과, `npm test` 기존 실패 2건 외 통과.
+- 같은 날 변경(D-0219 "변경" 절): 원점수 → 실수 등급 PCHIP 정정, 띠는 9개 등급 확률을 코사인 곡선으로 이음, 큰 글씨 아래 "n등급일 확률이 p%로 가장 높아". 사용자가 실수 범위("1.6–4.6등급")는 정보가 없다고 판단해 범위 표기는 쓰지 않는다.
+- 남은 일: 위치 API의 `grade.density`는 화면에서 안 씀(정리 여부 미정).

diff --git a/memory/DECISIONS.md b/memory/DECISIONS.md
@@ -278,3 +278,4 @@
 | [`D-0216`](./decisions/D-0216-v510-single-candidate-diagnostic-first-lab-held.md) | accepted | 판정 지시문 채택 후보는 v5.10 하나(v5.9 별도 채택 없음). 질문 블라인드 판정 뒤 진단평가 기본값 v5.10, lab은 v5.8 보류·진단 사용 뒤 진단 방식으로 고침 | 사용자 결정. D-0213·D-0214의 채택 순서 대체 |
 | [`D-0217`](./decisions/D-0217-diagnostic-dev-navigation.md) | accepted | 진단평가 개발자 이동 지도: `?dev=1`·`CSAT_DIAGNOSTIC_DEV=1` 전용, 앞으로 건너뛰기(빈 단계는 비움, 가짜 판정 없음), 지나온 화면 읽기 전용 + 지문 초기화, 이전·다음은 전체 흐름 한 줄, 지도에 위치·상태 | 사용자 결정(질문 1~5) |
 | [`D-0218`](./decisions/D-0218-diagnostic-passage-result-review-select.md) | accepted | 진단 지문 결과 화면: 결과 가려 두고 문제 버튼으로 공개, 정오·근거 강도 색, 리뷰 대상(오답·근거 오류)만 골라 검토·완료 표시, 범주 5는 힌트 흐름 전까지 비대상, 결과를 다 보면 확률 최대 등급과 등급별 확률 띠, 다음 지문은 리뷰 완료 뒤 | 사용자 결정(메모 6·시안). D-0213 7번 순차 피드백 화면 흐름 대체 |
+| [`D-0219`](./decisions/D-0219-diagnostic-grade-continuous-gradient.md) | accepted | 진단 등급 띠: 9개 등급 확률을 부드럽게 이은 그라데이션(같은 날 실수 등급 축에서 변경), 커서를 대면 그 등급의 확률, 큰 글씨는 최빈 등급과 "n등급일 확률이 p%로 가장 높아"(실수 범위 표기 안 함) | 사용자 결정(질문 1~3) |
